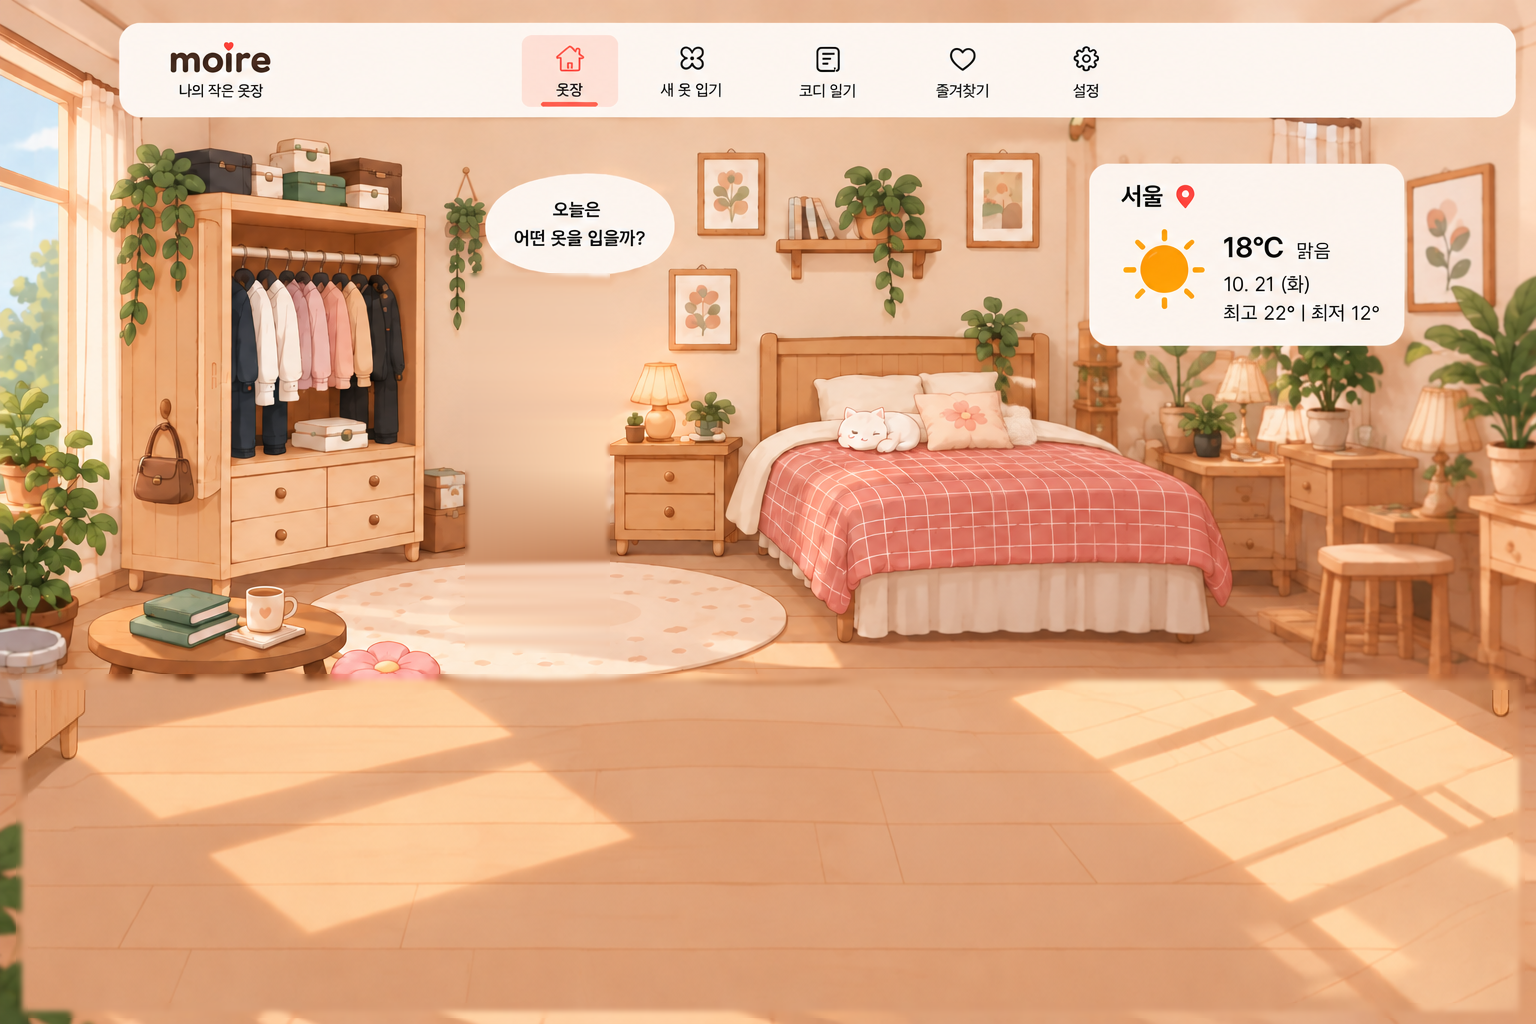
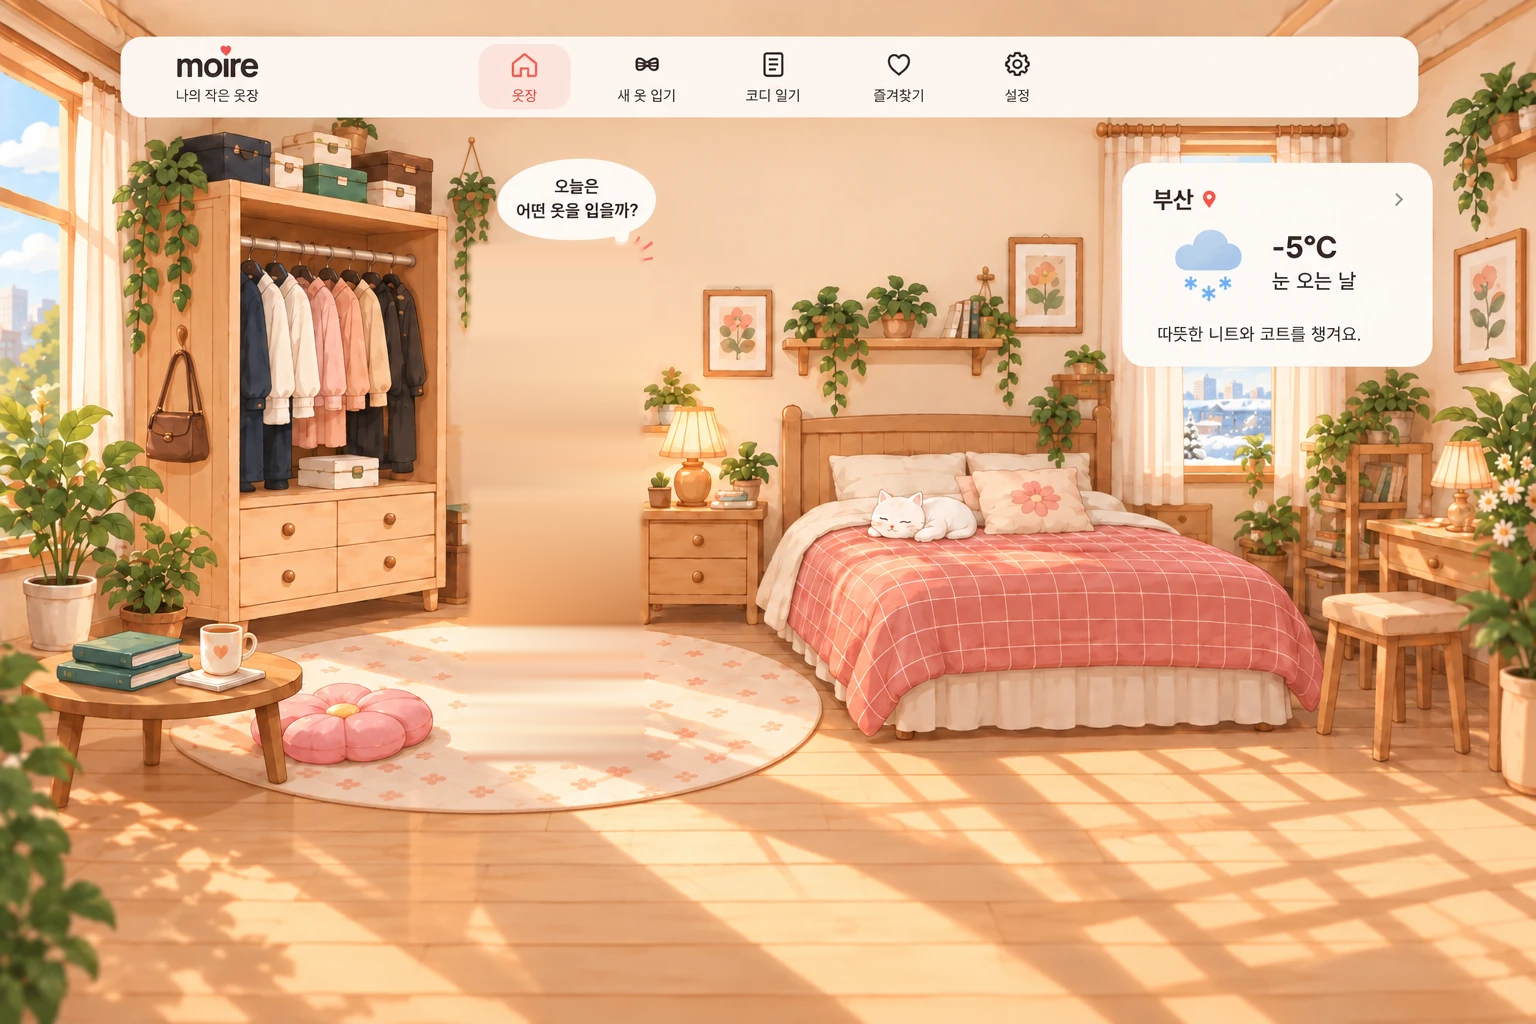
style: redraw the first screen from the new room picture with a weather card that opens region settings (P-38 step 2-9)

diff --git a/web/src/components/HomeScreen.jsx b/web/src/components/HomeScreen.jsx
@@ -1,26 +1,33 @@
 import { useCallback, useEffect, useState } from 'react'
 import { api } from '../api.js'
 import homeBg from '../assets/home/home-bg.png'
-import { WEATHER_LABEL, isoDate } from '../labels.js'
+import { isoDate } from '../labels.js'
 import '../styles/home.css'
 import { WeatherIcon } from './DressUpPanels.jsx'
 import ErrorLine from './ErrorLine.jsx'
 import Mannequin from './Mannequin.jsx'
 
-// 처음 화면 (SCREEN-SPEC §4). 시안 style/html 07을 옮겼습니다. (P-38)
-// 배경은 시안 PNG에서 가운데 캐릭터 자리와 아래 "최근 코디 일기" 패널을 메운 그림이고(최근 코디 일기는 넣지 않음, 사람이 정함 2026-10-22),
-// 말풍선 "오늘은 어떤 옷을 입을까?"는 배경에 그려진 것을 그대로 씁니다.
+// 처음 화면 (SCREEN-SPEC §4). 사람이 준 그림(2026-10-22)을 옮겼습니다. (P-38)
+// 배경은 그 그림에서 가운데 캐릭터 자리를 메운 것이고, 말풍선 "오늘은 어떤 옷을 입을까?"는 그림에 있는 것을 그대로 씁니다.
 // 캐릭터 자리에는 지금 고른 모양의 마네킹이 기본 잠옷 차림으로 섭니다.
 // 날씨 카드: 오늘, 저장한 지역(없으면 서울)의 날씨 (API-SPEC §4). 처음 화면을 열 때 한 번 받습니다.
+// 기온은 최저~최고, 한마디는 날씨마다 정해 둔 문장 (AI를 부르지 않음). > 는 설정의 지역 설정을 엽니다. (사람이 정함, 2026-10-22)
 
-const WEEKDAYS = ['일', '월', '화', '수', '목', '금', '토']
-
-function shortDate(iso) {
-  const [y, m, d] = iso.split('-').map(Number)
-  return `${m}. ${d} (${WEEKDAYS[new Date(y, m - 1, d).getDay()]})`
+const DAY_NAME = {
+  clear: '맑은 날',
+  cloudy: '흐린 날',
+  rain: '비 오는 날',
+  snow: '눈 오는 날',
 }
 
-function HomeScreen({ mannequin }) {
+const MESSAGE = {
+  clear: '가벼운 옷차림으로 나가 보세요.',
+  cloudy: '얇은 겉옷을 챙겨 보세요.',
+  rain: '우산과 방수되는 신발을 챙겨요.',
+  snow: '따뜻한 니트와 코트를 챙겨요.',
+}
+
+function HomeScreen({ mannequin, onOpenRegion }) {
   const [weather, setWeather] = useState(null)
   const [error, setError] = useState(null)
 
@@ -40,28 +47,28 @@ function HomeScreen({ mannequin }) {
       <p className="visually-hidden">오늘은 어떤 옷을 입을까?</p>
       <Mannequin className="hm-mannequin" {...mannequin} title="지금 마네킹 모양, 기본 잠옷 차림" />
 
-      {/* 날씨 카드 (시안 .weather) */}
+      {/* 날씨 카드 */}
       <div className="hm-weather" aria-label="오늘 날씨">
+        <button type="button" className="hm-weather__more" aria-label="지역 설정 열기" onClick={onOpenRegion}>
+          <svg viewBox="0 0 24 24" aria-hidden="true">
+            <path d="M9 5l7 7-7 7" />
+          </svg>
+        </button>
         {weather && (
           <>
             <div className="hm-weather__city">
               {weather.region}
-              <svg width="20" height="22" viewBox="0 0 24 24" aria-hidden="true">
+              <svg width="16" height="18" viewBox="0 0 24 24" aria-hidden="true">
                 <path d="M12 22s-7-7-7-12a7 7 0 0 1 14 0c0 5-7 12-7 12z" fill="#f0574b" />
                 <circle cx="12" cy="10" r="2.6" fill="#fff" />
               </svg>
             </div>
             <WeatherIcon condition={weather.condition} className="hm-weather__icon" />
-            <div className="hm-weather__info">
-              <b>
-                {weather.min_temp}°~{weather.max_temp}°C
-              </b>
-              <small>{WEATHER_LABEL[weather.condition].label}</small>
-              <br />
-              {shortDate(weather.date)}
-              <br />
-              최고 {weather.max_temp}° | 최저 {weather.min_temp}°
+            <div className="hm-weather__temp">
+              {weather.min_temp}°~{weather.max_temp}°C
             </div>
+            <div className="hm-weather__day">{DAY_NAME[weather.condition]}</div>
+            <p className="hm-weather__msg">{MESSAGE[weather.condition]}</p>
           </>
         )}
         {!weather && !error && <p className="hm-weather__wait">날씨를 불러오는 중…</p>}

diff --git a/web/src/styles/home.css b/web/src/styles/home.css
@@ -1,5 +1,5 @@
-/* 처음 화면 (SCREEN-SPEC §4). 시안 style/html 07을 그대로 옮깁니다. 위치는 1536×1024 캔버스 좌표.
-   배경은 시안 PNG에서 가운데 캐릭터 자리와 아래 "최근 코디 일기" 패널을 메운 그림. (P-38) */
+/* 처음 화면 (SCREEN-SPEC §4). 사람이 준 그림(2026-10-22)을 옮깁니다. 위치는 1536×1024 캔버스 좌표.
+   배경은 그 그림에서 가운데 캐릭터 자리를 메운 것. (P-38) */
 
 .hm {
   position: absolute;
@@ -9,64 +9,96 @@
   color: #3b2a22;
 }
 
-/* 시안의 캐릭터 자리 (470~612, 280~645) */
+/* 그림의 캐릭터 자리 (475~638, 250~755) */
 .hm-mannequin {
   position: absolute;
-  left: 446px;
-  top: 282px;
-  width: 190px;
-  height: 368px;
+  left: 452px;
+  top: 262px;
+  width: 210px;
+  height: 490px;
 }
 
-/* 날씨 카드 (시안 .weather) */
+/* 날씨 카드: 그림에 그려진 카드(1123~1432, 163~366)를 덮습니다 */
 .hm-weather {
   position: absolute;
-  left: 1089px;
-  top: 164px;
+  left: 1120px;
+  top: 160px;
   width: 316px;
-  height: 182px;
-  border-radius: 20px;
-  background: #fdf8f3;
+  height: 210px;
+  border-radius: 22px;
+  background: #fffaf6;
   box-shadow: var(--shadow-panel);
 }
 
 .hm-weather__city {
   position: absolute;
-  left: 30px;
-  top: 18px;
+  left: 32px;
+  top: 24px;
   display: flex;
   align-items: center;
-  gap: 8px;
-  font-size: 24px;
+  gap: 6px;
+  font-size: 22px;
   font-weight: 700;
+}
+
+.hm-weather__more {
+  position: absolute;
+  right: 18px;
+  top: 22px;
+  width: 32px;
+  height: 32px;
+  padding: 4px;
+  border: none;
+  border-radius: 50%;
+  background: none;
+  cursor: pointer;
+}
+
+.hm-weather__more:hover {
+  background: #f6ebe0;
+}
+
+.hm-weather__more svg {
+  width: 22px;
+  height: 22px;
+  fill: none;
+  stroke: #6c5a50;
+  stroke-width: 2;
 }
 
 .hm-weather__icon {
   position: absolute;
-  left: 32px;
-  top: 64px;
+  left: 46px;
+  top: 66px;
   width: 84px;
   height: 84px;
 }
 
-.hm-weather__info {
+.hm-weather__temp {
   position: absolute;
-  left: 133px;
-  top: 62px;
-  font-size: 18px;
-  line-height: 1.58;
+  left: 152px;
+  top: 70px;
+  font-size: 30px;
+  font-weight: 700;
+  letter-spacing: -0.5px;
   white-space: nowrap;
 }
 
-.hm-weather__info b {
-  font-size: 26px;
-  font-weight: 700;
-  letter-spacing: -0.5px;
+.hm-weather__day {
+  position: absolute;
+  left: 152px;
+  top: 112px;
+  font-size: 19px;
 }
 
-.hm-weather__info small {
-  margin-left: 8px;
-  font-size: 17px;
+.hm-weather__msg {
+  position: absolute;
+  left: 32px;
+  right: 20px;
+  top: 162px;
+  margin: 0;
+  font-size: 16px;
+  white-space: nowrap;
 }
 
 .hm-weather__wait {

diff --git a/web/src/App.jsx b/web/src/App.jsx
@@ -30,6 +30,8 @@ function App() {
   const [dressUpInit, setDressUpInit] = useState(null)
   // 입혀 보기를 할 때마다 새 옷 입기 화면을 처음부터 다시 그립니다.
   const [dressUpKey, setDressUpKey] = useState(0)
+  // 설정을 열 때 처음 보일 쪽. 처음 화면 날씨 카드의 > 는 'region' (사람이 정함, 2026-10-22)
+  const [settingsPage, setSettingsPage] = useState(null)
   const [saving, setSaving] = useState(false)
   const [saveError, setSaveError] = useState(null)
   const [toast, setToast] = useState(null)
@@ -78,7 +80,13 @@ function App() {
     setConfirmed(null)
     setDressUpInit(null)
     setDressUpKey((k) => k + 1)
+    setSettingsPage(null)
     setActiveMenu(key)
+  }
+
+  function openRegionSettings() {
+    selectMenu('settings')
+    setSettingsPage('region')
   }
 
   function openTryOn(data) {
@@ -131,7 +139,7 @@ function App() {
               {!fullScreen && <Wardrobe className="stage__wardrobe" />}
             </>
           )}
-          {homeOpen && <HomeScreen mannequin={mannequin} />}
+          {homeOpen && <HomeScreen mannequin={mannequin} onOpenRegion={openRegionSettings} />}
           {closetOpen && <ClosetScreen mannequin={mannequin} outfitTable={outfitTable} showToast={setToast} />}
           {dressUpOpen && (
             <DressUpScreen
@@ -147,7 +155,12 @@ function App() {
           {diaryOpen && <DiaryScreen onGoDressUp={() => selectMenu('dressup')} onTryOn={openTryOn} />}
           {favoritesOpen && <FavoritesScreen onTryOn={openTryOn} />}
           {settingsOpen && (
-            <SettingsScreen mannequin={mannequin} onMannequinSaved={setMannequin} showToast={setToast} />
+            <SettingsScreen
+              mannequin={mannequin}
+              initialPage={settingsPage}
+              onMannequinSaved={setMannequin}
+              showToast={setToast}
+            />
           )}
           {status === 'error' && (
             <div className="stage__notice">

diff --git a/web/src/components/SettingsScreen.jsx b/web/src/components/SettingsScreen.jsx
@@ -238,12 +238,13 @@ function WordList({ words, adder, ...handlers }) {
   )
 }
 
-function SettingsScreen({ mannequin, onMannequinSaved, showToast }) {
+// initialPage: 처음 보일 쪽 ('region' 등). 없으면 마네킹 설정
+function SettingsScreen({ mannequin, initialPage, onMannequinSaved, showToast }) {
   const [settings, setSettings] = useState(null)
   const [keywords, setKeywords] = useState(null)
   const [tags, setTags] = useState(null)
   const [loadError, setLoadError] = useState(null)
-  const [page, setPage] = useState('mannequin')
+  const [page, setPage] = useState(initialPage ?? 'mannequin')
   const [tab, setTab] = useState('color')
   const [region, setRegion] = useState('')
   // 고르는 중인 마네킹 모양. [설정 완료]를 눌러야 저장합니다. (사람이 정함, 2026-10-22)

diff --git a/SCREEN-SPEC.md b/SCREEN-SPEC.md
@@ -178,27 +178,29 @@ PRD에는 없는 내용입니다. ARCHITECTURE §5에서 SCREEN-SPEC과 API-SPEC
 
 ## 4. 처음 화면
 
-앱을 열면(첫 실행이 끝난 뒤) 나오는 화면입니다. 메뉴를 아무것도 고르지 않은 상태라 메뉴바에 켜진 메뉴가 없습니다.
+앱을 열면(첫 실행이 끝난 뒤), 또는 메뉴바 로고를 누르면 나오는 화면입니다. 메뉴를 아무것도 고르지 않은 상태라 메뉴바에 켜진 메뉴가 없습니다.
 
-(2026-10-22 바꿈, P-38) 시안 `style/html`의 07을 옮겼습니다. 아래 "최근 코디 일기" 패널은 넣지 않았습니다 (사람이 정함).
+(2026-10-22 바꿈, P-38) 사람이 준 그림(시안 07을 고쳐 그린 방, 1536×1024)을 옮겼습니다. 시안 07의 "최근 코디 일기" 패널은 넣지 않았습니다 (사람이 정함).
 
 ```
 ┌ moire  [옷장][새 옷 입기][코디 일기][즐겨찾기][설정] ─────────────────┐
-│ (옷장)    ( 오늘은 어떤 옷을 입을까? )              ┌ 부산 📍 ─────────┐ │
-│              (마네킹, 잠옷)                       │ ❄ -5°~1°C 눈    │ │
-│                          (침대)                  │ 10. 22 (목)      │ │
-│      (깔개)                                      │ 최고 1° | 최저 -5° │ │
-│  (마루)                                          └────────────────┘ │
+│ (옷장)    ( 오늘은 어떤 옷을 입을까? )              ┌ 부산 📍          > ┐ │
+│              (마네킹, 잠옷)                       │ ❄  -5°~1°C        │ │
+│                          (침대)                  │    눈 오는 날       │ │
+│      (깔개)                                      │ 따뜻한 니트와 코트를 챙겨요.│ │
+│  (마루)                                          └──────────────────┘ │
 └──────────────────────────────────────────────────────────┘
 ```
 
 | | 내용 | 출처 |
 | --- | --- | --- |
-| 보이는 것 | 상단 메뉴바, 시안 07의 방 그림 (옷장, 침대, 깔개, 마루) | 시안 07, 사람이 정함 2026-10-22 |
+| 보이는 것 | 상단 메뉴바, 방 그림 (옷장, 침대, 깔개, 마루) | 사람이 준 그림, 2026-10-22 |
 | 보이는 것 | 가운데 마네킹. 지금 고른 마네킹 모양에 기본 잠옷 차림. 머리 위 말풍선 "오늘은 어떤 옷을 입을까?" (누를 수 없음) | PRD §6 마네킹, 사람이 정함 2026-10-22 |
-| 보이는 것 | 오른쪽 위 날씨 카드: 지역과 핀, 날씨 그림, 최저~최고 기온과 날씨 상태, 오늘 날짜("10. 22 (목)"), 최고·최저. 저장한 지역(없으면 서울)의 오늘 날씨 | 사람이 정함, 2026-10-22 |
+| 보이는 것 | 오른쪽 위 날씨 카드: 지역과 핀, 날씨 그림, 최저~최고 기온, 날씨 이름(맑은 날, 흐린 날, 비 오는 날, 눈 오는 날), 날씨마다 정해 둔 한마디. 저장한 지역(없으면 서울)의 오늘 날씨 | 사람이 정함, 2026-10-22 |
+| 보이는 것 | 한마디 (AI를 부르지 않음): 맑음 "가벼운 옷차림으로 나가 보세요.", 흐림 "얇은 겉옷을 챙겨 보세요.", 비 "우산과 방수되는 신발을 챙겨요.", 눈 "따뜻한 니트와 코트를 챙겨요." | 사람이 정함, 2026-10-22 |
 | 보이는 것 | 날씨를 받는 동안 "날씨를 불러오는 중…", 받지 못하면 카드 안에 실패 한 줄과 [다시 시도] (2.7) | 제안 (2026-10-22) |
 | 보이지 않는 것 | 시안 07의 "최근 코디 일기"와 07_1의 "오늘의 추천 코디". 처음 화면에서는 AI를 부르지 않음 | 사람이 정함, 2026-10-22 |
+| 행동 | 날씨 카드 오른쪽 위 > → 메뉴 "설정"의 "지역 설정"이 열림. 메뉴로 설정을 열면 전처럼 "마네킹 설정"부터 | 사람이 정함, 2026-10-22 |
 | 행동 | 메뉴 다섯 개 중 하나 누르기 | — |
 | 행동 | 어느 화면에서든 메뉴바 왼쪽 로고 "moire / 나의 작은 옷장"을 누르면 처음 화면으로 돌아옴. 새 옷 입기에서 고르던 옷과 확정한 뒤 화면은 사라짐 (메뉴를 바꿀 때와 같음) | 시안, 사람이 정함 2026-10-22 |
 

diff --git a/PLAN.md b/PLAN.md
@@ -426,6 +426,9 @@
     - 정한 것 (사람이 정함): 시안 07에서 아래 "최근 코디 일기"는 빼고, 캐릭터 자리는 메운 뒤 앱 마네킹, 날씨 카드와 말풍선은 넣음. 07_1의 "오늘의 추천 코디"는 넣지 않음
     - 만든 것: 새 `HomeScreen.jsx`, 새 `styles/home.css`, 배경 `web/src/assets/home/home-bg.png`(아래 패널 자리는 시안 08의 마루로, 캐릭터 자리는 벽·깔개 색으로 메움), `App.jsx`(처음 화면을 캔버스 전체로, 이제 모든 화면이 캔버스 전체)
     - 더한 것 (사람이 정함): 메뉴바 로고를 누르면 처음 화면으로 돌아옴 (`MenuBar.jsx`, 로고를 버튼으로). 확인용 서버에서 메뉴 다섯 개 각각에서 로고 → 처음 화면, 켜진 메뉴 없음
+    - 고친 것 (사람이 정함, 2026-10-22): 사람이 준 그림으로 배경을 바꿈(시안 08 마루를 이어 붙이던 방법은 쓰지 않음, 그림의 캐릭터 자리만 메움). 날씨 카드를 그 그림대로: 최저~최고 기온, 날씨 이름("눈 오는 날"), 날씨마다 정해 둔 한마디, 오른쪽 위 > 는 설정의 "지역 설정"을 엶 (`App.jsx`에 설정을 열 때 처음 쪽, `SettingsScreen.jsx`에 `initialPage`)
+    - 다시 확인: `npm run build` 통과, `npm run lint` 오류 0(경고 13개는 같음). 확인용 서버에서 날씨 카드 "부산 / -5°~1°C / 눈 오는 날 / 따뜻한 니트와 코트를 챙겨요.", > → 설정 "지역 설정", 로고 → 메뉴 "설정"으로 열면 "마네킹 설정"
+    - 실행하지 않음: 맑음·흐림·비의 이름과 한마디(가짜 날씨가 눈이라 볼 수 없음)
     - 정리: 이제 보이지 않는 처음 화면의 앱 마네킹(`.stage__mannequin`)과 "준비 중인 화면이에요." 문장(`.stage__placeholder`)을 지움. 앱이 그린 방(`Room.jsx`, `Wardrobe.jsx`)은 불러오는 중·실패 때 보여서 남김
     - 확인: `npm run lint`(오류 0, 경고 13개: 새 `HomeScreen.jsx`에 다른 화면과 같은 종류 1개가 더해짐), `npm run build` 통과. 확인용 서버(8090)에서 처음 화면: 방, 잠옷 마네킹, 말풍선, 날씨 카드("부산", "-5°~1°C 눈", "10. 22 (목)", "최고 1° | 최저 -5°"), 아래 패널 없음. 메뉴 다섯 개가 각각 그 화면을 엶
     - 실행하지 않음: 날씨를 받지 못했을 때의 줄과 [다시 시도](서버를 꺼야 함), 남성 마네킹으로 본 모습, 진짜 날씨

diff --git a/TEST-PLAN.md b/TEST-PLAN.md
@@ -159,7 +159,7 @@
 | 시나리오 | 시작 조건과 입력 | 행동 | 기대 결과 | 관련 요구와 설계 |
 | --- | --- | --- | --- | --- |
 | T-63 새로고침 뒤 저장된 것 | 마네킹 모양, 내 지역, 옷 3벌(1벌 지움), 더한 키워드와 태그, 기록 2, 즐겨찾기 3(순서 바꿈) | 브라우저 새로고침 | 마네킹 고르기 창이 나오지 않음. 메뉴마다 위 내용이 그대로이고 즐겨찾기는 바꾼 순서. 지운 옷은 옷장에 없음 | DATA-MODEL §1~7, D-002 |
-| T-116 처음 화면 (P-38) | 마네킹을 고름, 저장한 지역 부산, 가짜 날씨 | 앱 열기 → 메뉴 다섯 개를 차례로 누르고 매번 로고 누르기 | 시안 07의 방에 지금 모양의 잠옷 마네킹과 말풍선 "오늘은 어떤 옷을 입을까?", 오른쪽 위 날씨 카드(부산, 오늘 날짜, 최저~최고 기온). 아래쪽에 "최근 코디 일기" 패널은 없음. 메뉴를 누르면 그 화면이 열리고, 그 화면에서 로고를 누르면 처음 화면으로 돌아옴(켜진 메뉴 없음) | SCREEN §4 |
+| T-116 처음 화면 (P-38) | 마네킹을 고름, 저장한 지역 부산, 가짜 날씨(눈) | 앱 열기 → 날씨 카드의 > → 로고 → 메뉴 다섯 개를 차례로 누르고 매번 로고 누르기 | 방 그림에 지금 모양의 잠옷 마네킹과 말풍선 "오늘은 어떤 옷을 입을까?", 오른쪽 위 날씨 카드(부산, -5°~1°C, "눈 오는 날", "따뜻한 니트와 코트를 챙겨요."). 아래쪽에 "최근 코디 일기" 패널은 없음. > 를 누르면 설정의 "지역 설정"이 열림. 메뉴를 누르면 그 화면이 열리고, 로고를 누르면 처음 화면으로 돌아옴(켜진 메뉴 없음) | SCREEN §4 |
 | T-64 새로고침하면 편집 중인 코디는 사라짐 | 점수 확인 단계 (확정 전) | 새로고침 | 처음 화면의 잠옷 마네킹이 보이고, 일기 카드 수는 그대로 | DATA-MODEL §8, D-006 |
 | T-65 서버 재시작 뒤 | T-63 상태 | 서버를 끄고 켠 뒤 새로고침 | T-63과 같은 결과 | D-002, D-003 |
 | T-66 확정한 뒤 다시 켜기 | 확정한 뒤 화면 | 서버를 다시 켜고 새로고침 | 처음 화면(잠옷 차림)이 보이고, 일기 카드는 남음 | SCREEN §5.6 |

diff --git a/DESIGN.md b/DESIGN.md
@@ -334,12 +334,13 @@
 
 ### 5.15 처음 화면 (P-38)
 
-시안 `style/html` 07을 옮깁니다 (사람이 정함, 2026-10-22). 스타일은 `web/src/styles/home.css`.
-- 배경 (`web/src/assets/home/home-bg.png`): 시안 07 PNG에서 두 곳을 메움
-  - 아래 "최근 코디 일기" 패널 자리(22~1519, 680~999): 같은 그림체인 시안 08의 햇빛 든 마루(765줄 아래)를 잘라 세로로 늘려 깔고 이음매를 살짝 흐림
-  - 가운데 캐릭터 자리(468~607, 276~650): 벽은 좌우 벽 색을 가로로, 벽 아래는 벽에서 바닥으로 세로로, 깔개는 좌우 깔개 색을 가로로 이음. 옆의 화분·상자·협탁 색이 끌려오지 않게 표본 위치를 줄마다 바꿈
+사람이 준 그림(2026-10-22, 시안 07을 고쳐 그린 방, 1536×1024)을 옮깁니다. 스타일은 `web/src/styles/home.css`.
+- 배경 (`web/src/assets/home/home-bg.png`): 그 그림에서 가운데 캐릭터 자리(470~641, 244~762)를 메움
+  - 벽: 좌우 벽 색을 가로로 이음. 화분·선반·말풍선 장식 색은 벽 색이 아니면 쓰지 않고 반대쪽이나 윗줄 색을 쓰며, 줄무늬가 생기지 않게 위아래 15줄을 평균 냄
+  - 벽 아래(505~622): 벽 색에서 깔개 색으로 세로로 넘어감. 깔개(622~762): 좌우 깔개 색을 가로로 이음
 - 말풍선은 배경에 그려진 것을 그대로 씀
-- 마네킹(446, 282, 190×368), 날씨 카드(1089, 164, 316×182, 모서리 20, `#fdf8f3`): 지역 24px 굵게와 빨간 핀, 날씨 그림 84px, 기온 26px 굵게
+- 마네킹(452, 262, 210×490)
+- 날씨 카드(1120, 160, 316×210, 모서리 22, `#fffaf6`)가 그림의 카드를 덮음: 지역 22px 굵게와 빨간 핀, 오른쪽 위 > (32px 원), 날씨 그림 84px, 기온 30px 굵게, 날씨 이름 19px, 한마디 16px
 - 앱이 그린 방(§5.3)은 불러오는 중이거나 실패했을 때만 보임
 
 ## 6. 미정과 열린 질문
